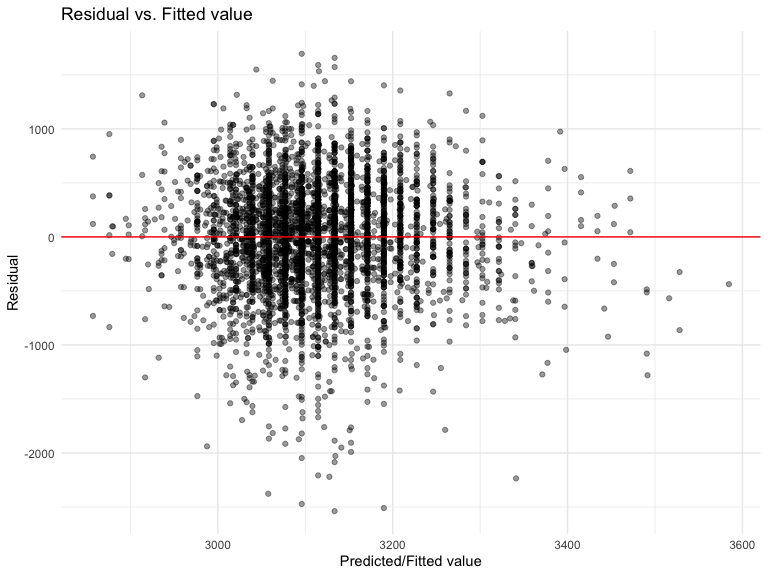
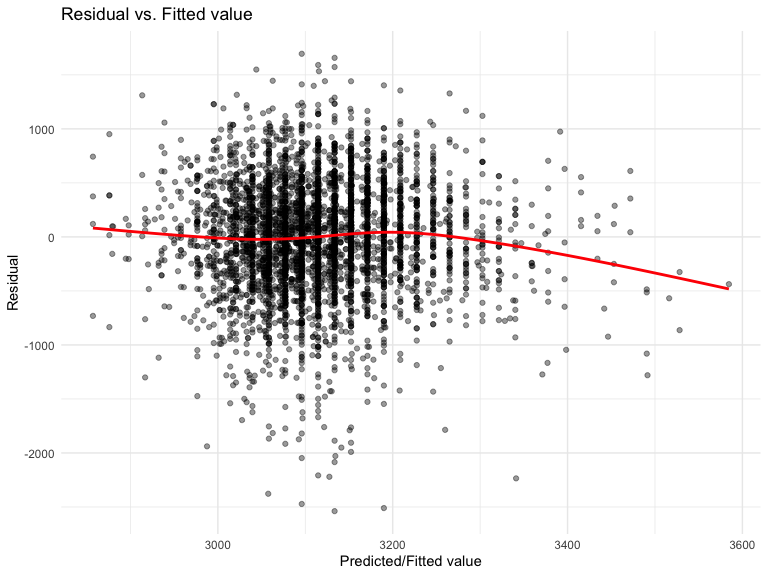
q2 - bootstrap samples (1000 -- run faster); density plots done

Changed region(s): [[0.0938, 0.375, 0.9688, 0.4688], [0.8438, 0.4688, 0.9375, 0.5]]

diff --git a/p8105_hw6_dz2426.md b/p8105_hw6_dz2426.md
@@ -141,8 +141,8 @@ bwt_resid_pred =
 # Plot: Residual vs. Fitted value 
 bwt_resid_pred %>% 
   ggplot(aes(x = pred, y = resid)) +
-  geom_point(alpha = 0.4) + 
-  geom_abline(intercept = 0, slope = 0, color = "red") +
+  geom_point(alpha = 0.4) +
+  geom_smooth(se = FALSE, color = "red") +
   labs(x = "Predicted/Fitted value",
       y = "Residual",
       title = "Residual vs. Fitted value")
@@ -151,8 +151,10 @@ bwt_resid_pred %>%
 <img src="p8105_hw6_dz2426_files/figure-gfm/unnamed-chunk-4-1.png" width="100%" />
 
 **Comments:**  
-The residual vs. Fitted value plot shows a random pattern with evenly
-distributed value around the zero line, indicating equal error variance.
+The residual vs. Fitted value plot shows a generally random pattern with
+evenly distributed value around the zero line. However, since the
+estimated line is not entirely horizontal, it indicates there is unequal
+error variance (heteroscedasticity) and outliers.
 
 ``` r
 # MLR
@@ -221,9 +223,8 @@ summary(fit3)
     ## F-statistic:  1346 on 7 and 4334 DF,  p-value: < 2.2e-16
 
 ``` r
-set.seed(20)
-
 # Cross validating
+set.seed(1)
 cv_birthw = crossv_mc(birth_w, 100)
 ```
 
@@ -284,12 +285,95 @@ cv_results %>%
 
 | Model | Average RMSE |
 | :---- | -----------: |
-| 1     |        504.5 |
-| 2     |        332.9 |
-| 3     |        288.0 |
+| 1     |        506.7 |
+| 2     |        332.2 |
+| 3     |        288.6 |
 
 **Comments:**  
 Based on the violin plot and the calculated average root mean squared
 error (RMSE), the MLR that includes head circumference, length, sex, and
 all interactions as predictors (model 3) has the lowest average RMSE
-(288.0).
+(288.6), in other words, the lowest standard deviation of the
+unexplained variance.  
+Therefore, model 3 has the best fit, which means it has the most
+accurate prediction of the resposne among the three.
+
+# Problem 2
+
+``` r
+# Import amd tidy dataset
+weather_df = 
+  rnoaa::meteo_pull_monitors(
+    c("USW00094728"),
+    var = c("PRCP", "TMIN", "TMAX"), 
+    date_min = "2017-01-01",
+    date_max = "2017-12-31") %>%
+  mutate(
+    name = recode(id, USW00094728 = "CentralPark_NY"),
+    tmin = tmin / 10,
+    tmax = tmax / 10) %>%
+  select(name, id, everything())
+```
+
+``` r
+set.seed(1)
+
+boot_strap_results = 
+  weather_df %>% 
+  bootstrap(n = 1000) %>% 
+  mutate(
+    models = map(strap, ~lm(tmax ~ tmin, data = .x)),
+    tidy_models = map(models, broom::tidy), # include estimate, term
+    glance_models = map(models, broom::glance)) %>% # include p.value, r.squared
+  unnest(tidy_models, glance_models) %>% 
+  select(.id, term, estimate, r.squared) %>% 
+  pivot_wider(
+    names_from = term,
+    values_from = estimate) %>% 
+  rename(beta0_hat = `(Intercept)`,
+         beta1_hat = tmin) %>% 
+  mutate(log_b0xb1 = log(beta0_hat * beta1_hat)) %>% # produce log estimate
+  janitor::clean_names() %>% 
+  select(r_squared, log_b0xb1)
+
+boot_strap_results
+```
+
+    ## # A tibble: 1,000 x 2
+    ##    r_squared log_b0xb1
+    ##        <dbl>     <dbl>
+    ##  1     0.907      2.04
+    ##  2     0.896      2.03
+    ##  3     0.918      2.05
+    ##  4     0.899      2.07
+    ##  5     0.913      1.97
+    ##  6     0.919      1.99
+    ##  7     0.918      2.00
+    ##  8     0.907      2.00
+    ##  9     0.916      2.01
+    ## 10     0.918      2.02
+    ## # … with 990 more rows
+
+``` r
+boot_strap_results %>% 
+  ggplot(aes(x = r_squared)) +
+  geom_density(fill = "lightblue") +
+  labs(x = ~R^2,
+       y = "Density",
+       title = "Distribution of" ~R^2,
+       caption = "5000 bootstrap samples")
+```
+
+<img src="p8105_hw6_dz2426_files/figure-gfm/unnamed-chunk-13-1.png" width="100%" />
+
+``` r
+boot_strap_results %>% 
+  ggplot(aes(x = log_b0xb1)) +
+  geom_density(fill = "lightyellow") +
+  labs(x = ~log(hat(beta)[0] %*% hat(beta)[1]),
+       y = "Density",
+       title = "Distribution of" ~log(hat(beta)[0] %*% hat(beta)[1]),
+       caption = "5000 bootstrap samples")
+```
+
+<img src="p8105_hw6_dz2426_files/figure-gfm/unnamed-chunk-14-1.png" width="100%" />
